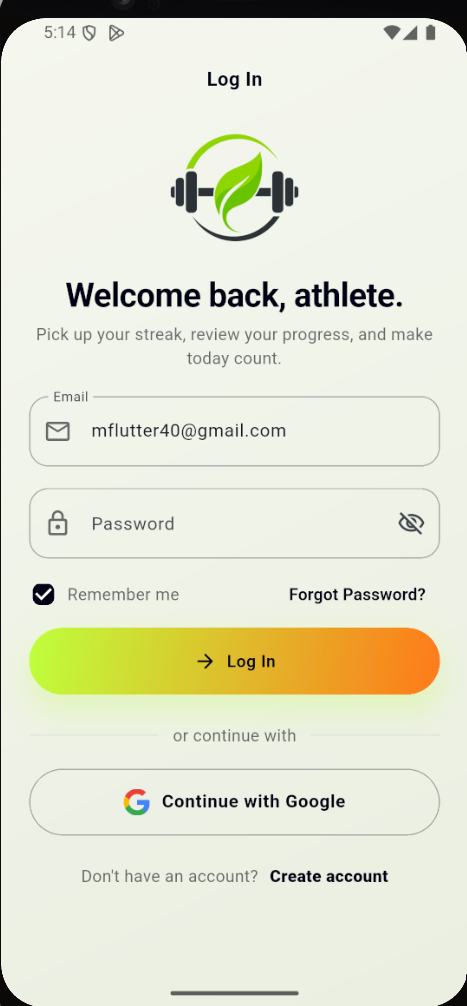
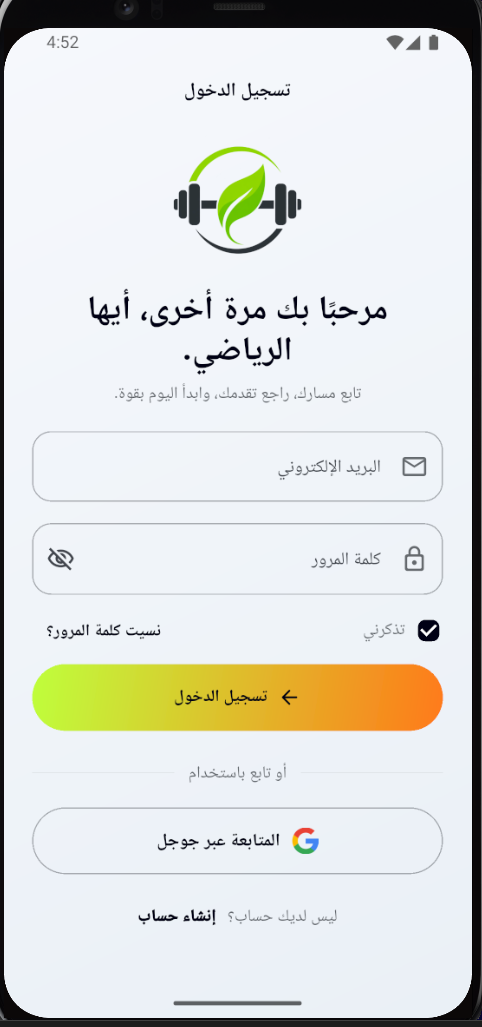
#

diff --git a/lib/features/authentication/presentation/pages/login_page.dart b/lib/features/authentication/presentation/pages/login_page.dart
@@ -52,9 +52,9 @@ class _LoginPageState extends ConsumerState<LoginPage> {
       WidgetsBinding.instance.addPostFrameCallback((_) {
         if (!mounted) return;
         final l10n = AppLocalizations.of(context);
-        ScaffoldMessenger.of(context).showSnackBar(
-          SnackBar(content: Text(l10n.authPasswordResetSuccess)),
-        );
+        ScaffoldMessenger.of(
+          context,
+        ).showSnackBar(SnackBar(content: Text(l10n.authPasswordResetSuccess)));
       });
     }
   }
@@ -86,7 +86,7 @@ class _LoginPageState extends ConsumerState<LoginPage> {
                       child: AuthLogoHero(
                         logoSize: 120,
                         title: l10n.authWelcomeBackTitle,
-                        subtitle: l10n.authWelcomeBackBody,
+                        //   subtitle: l10n.authWelcomeBackBody,
                       ),
                     ),
                     const SizedBox(height: 22),
@@ -228,7 +228,11 @@ class _LoginPageState extends ConsumerState<LoginPage> {
             .read(preferencesServiceProvider)
             .setRememberedEmail(
               _rememberMe
-                  ? ref.read(loginControllerProvider.notifier).emailController.text.trim()
+                  ? ref
+                      .read(loginControllerProvider.notifier)
+                      .emailController
+                      .text
+                      .trim()
                   : null,
             );
         if (!context.mounted) return;
